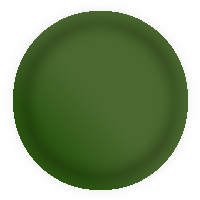
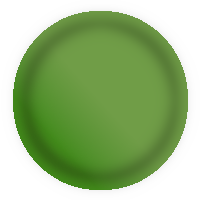
adding shadows to checkers

diff --git a/checkers/src/states/BoardPlayState.cpp b/checkers/src/states/BoardPlayState.cpp
@@ -198,12 +198,13 @@ bool BoardPlayState::load(void)
                                                font,
                                                asa::asColorStruct(asa::Colors::GREEN));
 
-    auto path = renderer.getBasePath();
-    white_tile = renderer.loadPNG(path + "/assets/white_tile.png");
-    black_tile = renderer.loadPNG(path + "/assets/black_tile.png");
+    auto path = renderer.getBasePath() + "/assets";
+    white_tile = renderer.loadPNG(path + "/white_tile.png");
+    black_tile = renderer.loadPNG(path + "/black_tile.png");
 
-    green_checker_texture = renderer.loadPNG(path + "/assets/checker_green3.png");
-    red_checker_texture = renderer.loadPNG(path + "/assets/checker_red3.png");
+    green_checker_texture = renderer.loadPNG(path + "/checker_green3.png");
+    red_checker_texture = renderer.loadPNG(path + "/checker_red3.png");
+    checker_shadow_texture = renderer.loadPNG(path + "/checker_shadow.png");
 
     bool is_loaded = green_checker_texture->isLoaded() && red_checker_texture->isLoaded();
 
@@ -283,36 +284,49 @@ void BoardPlayState::render(void)
     renderer.setColor(asa::Colors::WHITE);
     renderer.clear();
 
-    for (auto &r : boardContainers)
+    for (SDL_Rect &r : boardContainers)
     {
-        renderer.copyTexture(*white_tile, nullptr, &r);
+        white_tile->render(r);
     }
 
     for (auto &r : boardBlackTiles)
     {
-        renderer.copyTexture(*black_tile, nullptr, &r);
+        black_tile->render(r);
     }
 
-    SDL_SetRenderDrawBlendMode((SDL_Renderer *)renderer, SDL_BLENDMODE_ADD);
+    renderer.drawBlendMode(SDL_BLENDMODE_ADD);
 
     if (source)
     {
         renderer.setColor(asa::Colors::BLUE);
         renderer.fillRect(*source->container);
     }
-
-    SDL_SetRenderDrawBlendMode((SDL_Renderer *)renderer, SDL_BLENDMODE_NONE);
+    renderer.drawBlendMode(SDL_BLENDMODE_NONE);
 
     for (int i = 0; i < 12; ++i)
     {
         auto &position = current_checker_dimensions[i];
-        renderer.copyTexture(*green_checker_texture, nullptr, &position);
+        SDL_Rect w = position;
+
+        w.x -= 2;
+        w.y += 2;
+
+        checker_shadow_texture->alphaMod(255 - 130);
+
+        checker_shadow_texture->render(w);
+        green_checker_texture->render(position);
     }
 
     for (int i = 12; i < 24; ++i)
     {
         auto &position = current_checker_dimensions[i];
-        renderer.copyTexture(*red_checker_texture, nullptr, &position);
+        SDL_Rect w = position;
+
+        w.x -= 2;
+        w.y += 2;
+
+        checker_shadow_texture->render(w);
+        red_checker_texture->render(position);
     }
 
 #if _DEBUG

diff --git a/checkers/src/SDL2cpp/Texture.cpp b/checkers/src/SDL2cpp/Texture.cpp
@@ -77,6 +77,11 @@ void Texture::load(asa::Texture &&texture)
     m_width = texture.getWidth();
 }
 
+void Texture::render(const SDL_Rect &quad)
+{
+    CheckError<SDL_GetError>(SDL_RenderCopy(m_renderer, m_contained.get(), nullptr, &quad), "Cloud not render texture");
+}
+
 void Texture::render(const int x, const int y)
 {
     SDL_Rect quad = {x, y, m_width, m_height};
@@ -99,4 +104,24 @@ void Texture::render(const int x, const int y, SDL_RendererFlip &flip)
 {
     SDL_Rect quad = {x, y, m_width, m_height};
     CheckError<SDL_GetError>(SDL_RenderCopyEx(m_renderer, m_contained.get(), nullptr, &quad, 0, nullptr, flip), "Cloud not render clip texture");
+}
+
+void Texture::blendMode(SDL_BlendMode mode) {
+    CheckError<SDL_GetError>(SDL_SetTextureBlendMode(m_contained.get(), mode), "Cloud not set texture blend mode");
+}
+
+SDL_BlendMode Texture::blendMode(void) {
+    SDL_BlendMode result;
+    CheckError<SDL_GetError>(SDL_GetTextureBlendMode(m_contained.get(), &result), "Cloud not get texture blend mode");
+    return result;
+}
+
+void Texture::alphaMod(uint8_t mod) {
+    CheckError<SDL_GetError>(SDL_SetTextureAlphaMod(m_contained.get(), mod), "Could not set texture alpha mod");
+}
+
+uint8_t Texture::alphaMod(void) {
+    uint8_t result;
+    CheckError<SDL_GetError>(SDL_GetTextureAlphaMod(m_contained.get(), &result), "Could not set texture alpha mod");
+    return result;
 }

diff --git a/checkers/src/SDL2cpp/Texture.hpp b/checkers/src/SDL2cpp/Texture.hpp
@@ -23,11 +23,17 @@ public:
     int getHeight() const;
     int getWidth() const;
 
+    void render(const SDL_Rect &quad);
     void render(const int x = 0, const int y = 0);
     void render(const int x, const int y, const SDL_Rect &clip);
     void render(const int x, const int y, const SDL_Rect &clip, SDL_RendererFlip &flip);
     void render(const int x, const int y, SDL_RendererFlip &flip);
 
+    void blendMode(SDL_BlendMode mode);
+    SDL_BlendMode blendMode(void);
+
+    void alphaMod(uint8_t mod);
+    uint8_t alphaMod(void);
 private:
     SDL_Renderer *m_renderer = nullptr;
     int m_width;

diff --git a/checkers/src/SDL2cpp/Renderer.cpp b/checkers/src/SDL2cpp/Renderer.cpp
@@ -273,3 +273,15 @@ bool Renderer::fillCircle(int centerX, int centerY, int radius) {
 std::string Renderer::getBasePath(void) {
     return SDL_GetBasePath();
 }
+
+SDL_BlendMode Renderer::drawBlendMode(void) {
+    SDL_BlendMode result;
+    int rc = SDL_GetRenderDrawBlendMode(m_contained.get(), &result);
+    CheckError<SDL_GetError>(rc, "Could not get render draw blend mode");
+    return result;
+}
+
+void Renderer::drawBlendMode(SDL_BlendMode mode) {
+    int rc = SDL_SetRenderDrawBlendMode(m_contained.get(), mode);
+    CheckError<SDL_GetError>(rc, "Could not set render draw blend mode");
+}

diff --git a/checkers/src/states/BoardPlayState.hpp b/checkers/src/states/BoardPlayState.hpp
@@ -91,6 +91,8 @@ private:
     std::optional<asa::Texture> green_checker_texture;
     std::optional<asa::Texture> red_checker_texture;
 
+    std::optional<asa::Texture> checker_shadow_texture;
+
     void switchTurn(void);
 
     bool should_become_super_checker(const GridCell &) const;

diff --git a/checkers/src/SDL2cpp/Renderer.hpp b/checkers/src/SDL2cpp/Renderer.hpp
@@ -115,8 +115,12 @@ public:
 
     bool fillCircle(int centerX, int centerY, int radius);
 
-
     std::string getBasePath(void);
+
+    SDL_BlendMode drawBlendMode(void);
+
+    void drawBlendMode(SDL_BlendMode);
+
 
 private:
     SDL_Window *m_window_parent = nullptr;
